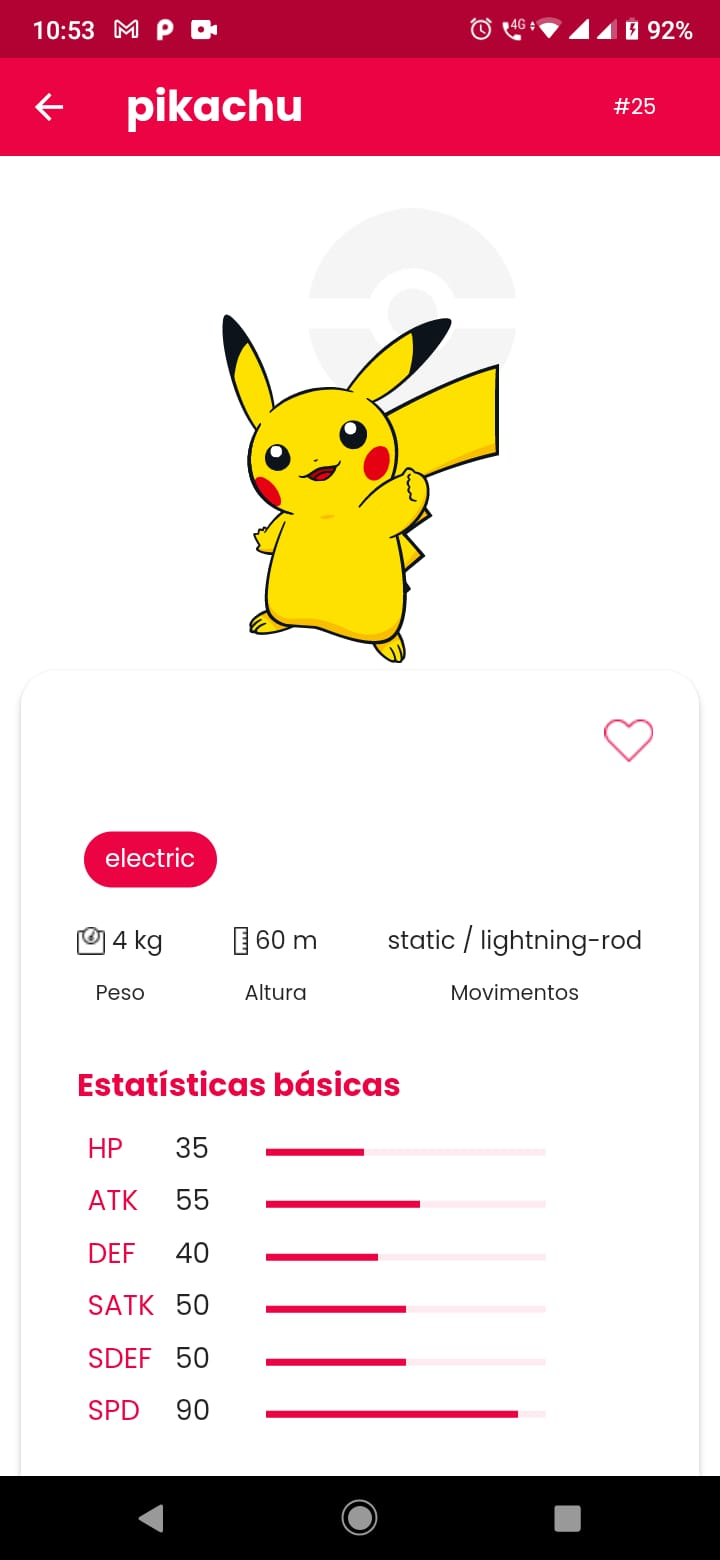
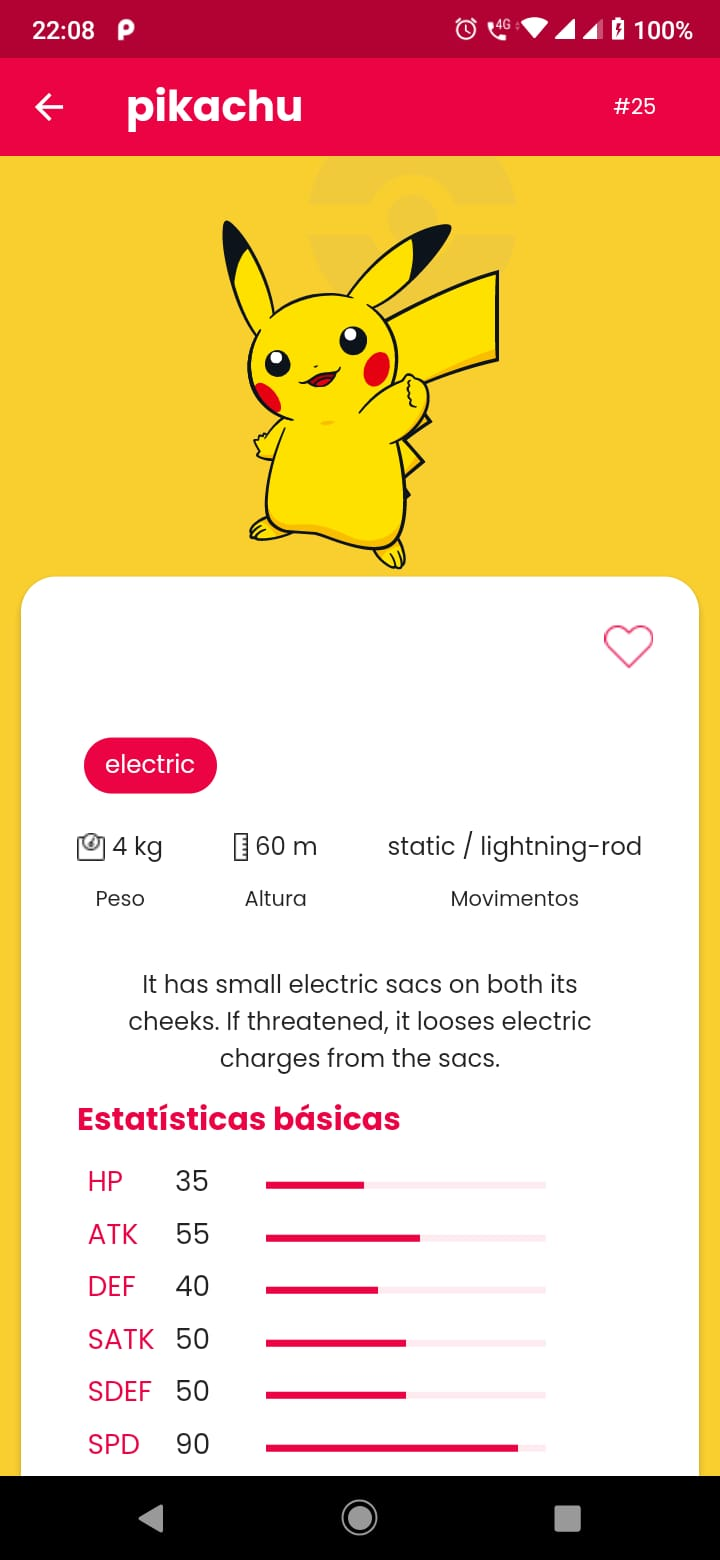
add center in text description in pokemon_details_screen.dart

diff --git a/lib/modules/pokemon/presentation/pokemon_details/pokemon_details_screen.dart b/lib/modules/pokemon/presentation/pokemon_details/pokemon_details_screen.dart
@@ -200,9 +200,11 @@ class _PokemonDetailsScreenState
                               Padding(
                                 padding:
                                     const EdgeInsets.only(right: 32, left: 32),
-                                child: Text(
-                                  widget.pokemon.description,
-                                  textAlign: TextAlign.justify,
+                                child: Center(
+                                  child: Text(
+                                    widget.pokemon.description,
+                                    textAlign: TextAlign.center,
+                                  ),
                                 ),
                               ),
                               const SizedBox(
